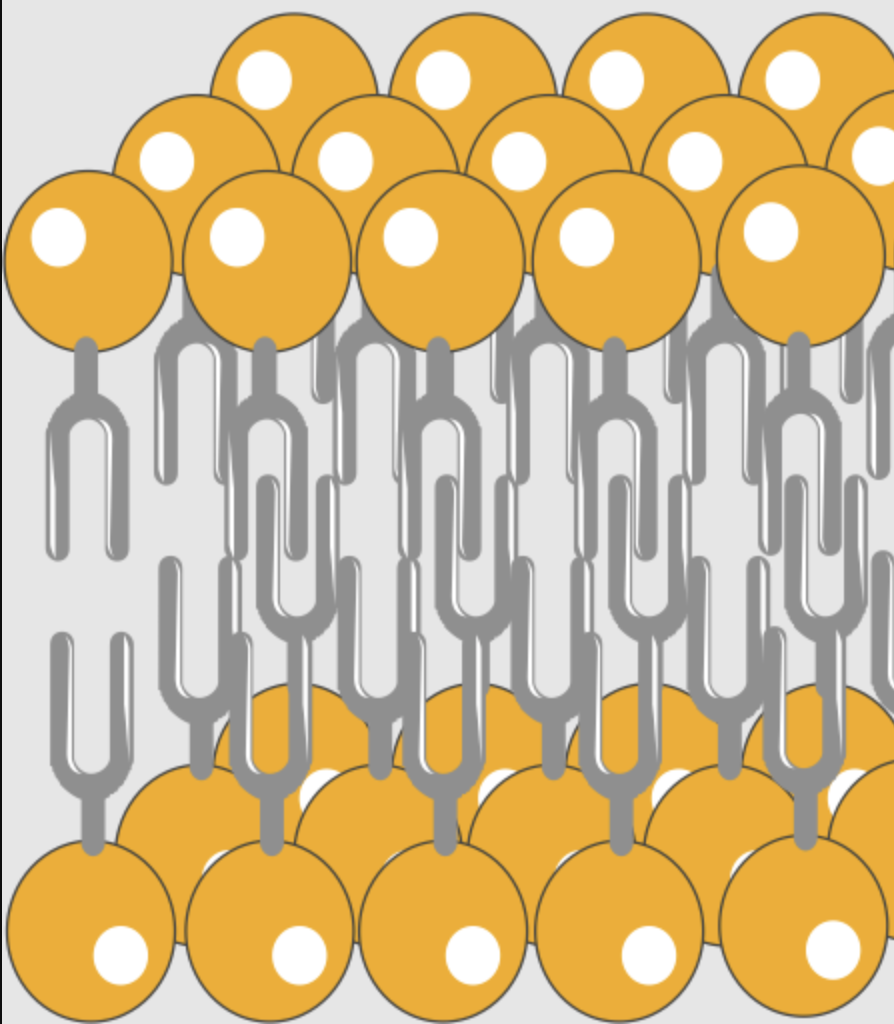
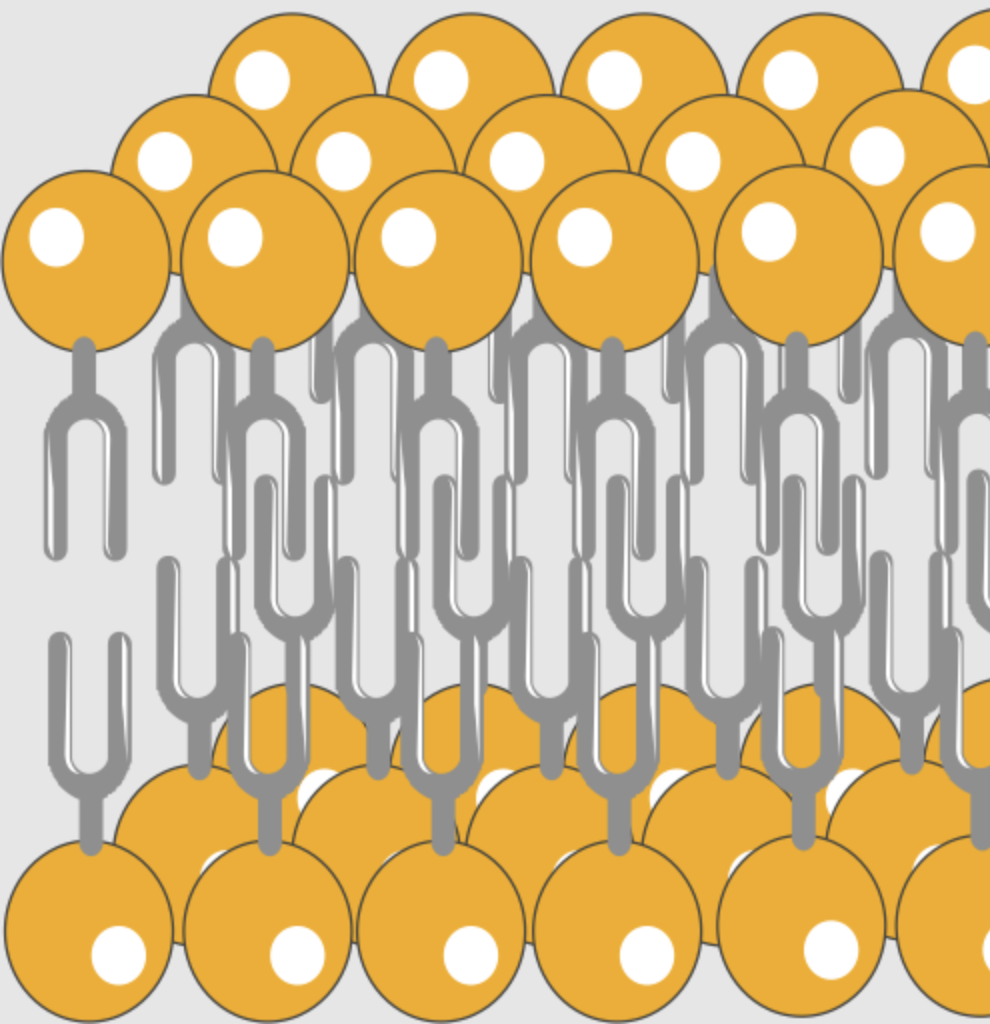
Make all images square

diff --git a/menavka.py b/menavka.py
@@ -109,7 +109,13 @@ class UserInterface:
                 circleCenterY + dy - size[1] // 2
             )
             original_size = curImg.size
-            rot = curImg.rotate(-angle / math.pi * 180 - 90, expand=True)  # .resize((80, 80))
+            shorter_side = min(original_size)
+            original_size = (shorter_side, shorter_side)
+            rot = (
+                curImg
+                .resize(original_size)  # TODO crop would be better
+                .rotate(-angle / math.pi * 180 - 90, expand=True)
+            )
 
             scale = rot.size[1] / original_size[1]
             new_image = pygame.transform.smoothscale(
